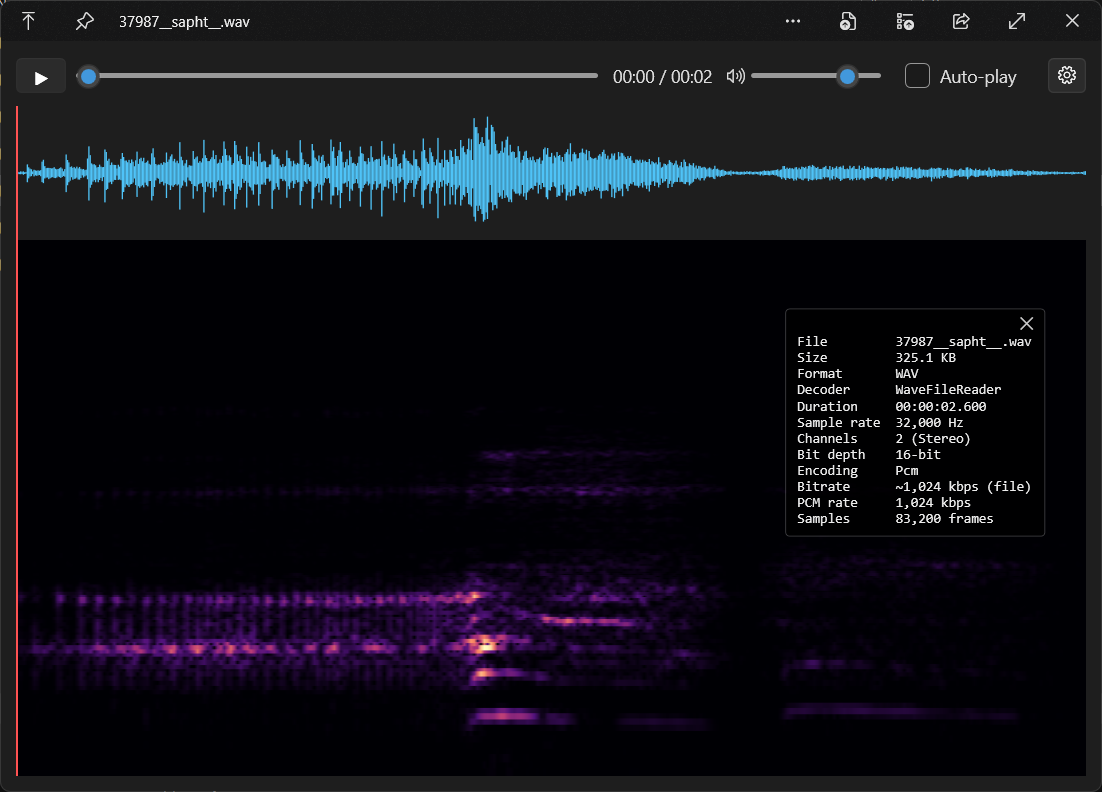
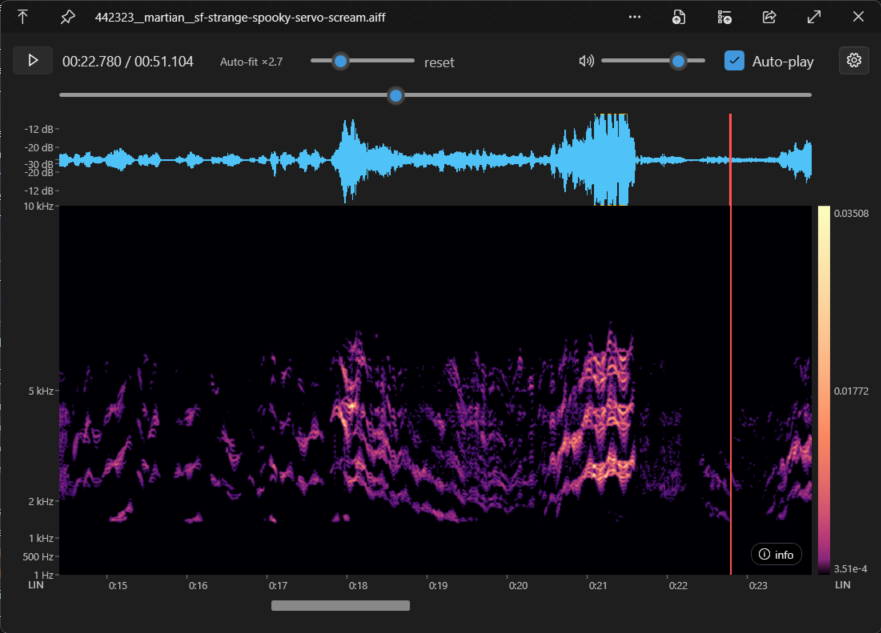
Stack the scale badges under the frequency ruler; new README screenshot
The amplitude badge sat under the colorbar, and with both scales on linear
the two corners both read "LIN", so the right-hand one wasn't recognisable
as the amplitude scale. Both now stack in the bottom-left corner, prefixed
"Hz LOG" over "Amp dB²", and still cycle on click. The time ruler is pinned
to the top of its row, since the stack makes the row taller.

diff --git a/QuickLook.Plugin.AudioViewer/AudioViewerControl.xaml b/QuickLook.Plugin.AudioViewer/AudioViewerControl.xaml
@@ -75,16 +75,16 @@
       <Setter Property="SnapsToDevicePixels" Value="True"/>
     </Style>
 
-    <!-- Clickable scale label in a plot corner (FreqScaleBadge / AmpScaleBadge). A TextBlock,
-         so it can never take keyboard focus away from Explorer's arrow keys. -->
+    <!-- Clickable scale label in the plot's bottom-left corner (FreqScaleBadge / AmpScaleBadge).
+         A TextBlock, so it can never take keyboard focus away from Explorer's arrow keys.
+         Right-aligned to line up with the frequency ruler's labels above it. -->
     <Style x:Key="ScaleBadge" TargetType="TextBlock">
       <Setter Property="Foreground" Value="{DynamicResource SecondaryText}"/>
       <Setter Property="Background" Value="Transparent"/>
       <Setter Property="FontSize" Value="10"/>
       <Setter Property="FontWeight" Value="SemiBold"/>
-      <Setter Property="HorizontalAlignment" Value="Center"/>
-      <Setter Property="VerticalAlignment" Value="Center"/>
-      <Setter Property="Padding" Value="4,1"/>
+      <Setter Property="HorizontalAlignment" Value="Right"/>
+      <Setter Property="Padding" Value="2,0"/>
       <Setter Property="Cursor" Value="Hand"/>
       <Setter Property="Visibility" Value="Collapsed"/>
       <Style.Triggers>
@@ -626,17 +626,21 @@
            visible slice of the timeline, taking the scroll offset from ViewScroll. It was
            previously as wide as the whole timeline and slid under this Grid's clip with a
            RenderTransform, which WPF's layout clip silently truncated — see TimeRuler. -->
-      <Grid Grid.Column="1" Grid.Row="1" ClipToBounds="True" Height="18">
+      <!-- Top-aligned: the scale badges beside it can make this row taller than the ruler. -->
+      <Grid Grid.Column="1" Grid.Row="1" ClipToBounds="True" Height="18" VerticalAlignment="Top">
         <ctl:TimeRuler x:Name="TimeAxis" Visibility="Collapsed"/>
       </Grid>
 
-      <!-- Active scales, in the otherwise empty bottom corners: frequency under the frequency
-           ruler, amplitude under the colorbar. Shown with them (RefreshAxes); a click cycles to
-           the next scale through the settings combo, so the two can never disagree. -->
-      <TextBlock x:Name="FreqScaleBadge" Grid.Column="0" Grid.Row="1" Style="{StaticResource ScaleBadge}"
-                 MouseLeftButtonUp="FreqScaleBadge_Click"/>
-      <TextBlock x:Name="AmpScaleBadge" Grid.Column="2" Grid.Row="1" Style="{StaticResource ScaleBadge}"
-                 Margin="6,0,0,0" MouseLeftButtonUp="AmpScaleBadge_Click"/>
+      <!-- Active scales, stacked in the otherwise empty corner under the frequency ruler:
+           "Hz LOG" over "Amp dB²" (prefixed, since both can read LIN). Shown with the ruler
+           (RefreshAxes); a click cycles to the next scale through the settings combo, so the
+           two can never disagree. -->
+      <StackPanel Grid.Column="0" Grid.Row="1" Margin="0,2,0,0">
+        <TextBlock x:Name="FreqScaleBadge" Style="{StaticResource ScaleBadge}"
+                   MouseLeftButtonUp="FreqScaleBadge_Click"/>
+        <TextBlock x:Name="AmpScaleBadge" Style="{StaticResource ScaleBadge}"
+                   MouseLeftButtonUp="AmpScaleBadge_Click"/>
+      </StackPanel>
     </Grid>
 
     <!-- Horizontal scrollbar for long files, placed below the time axis (well clear

diff --git a/QuickLook.Plugin.AudioViewer/AudioViewerControl.xaml.cs b/QuickLook.Plugin.AudioViewer/AudioViewerControl.xaml.cs
@@ -1081,9 +1081,10 @@ namespace QuickLook.Plugin.AudioViewer
 
         private void UpdateScaleBadges()
         {
-            FreqScaleBadge.Text = ScaleBadge.Short(PluginSettings.FreqScale);
+            // Prefixed because both can read "LIN"; the bare names stay in ScaleBadge.
+            FreqScaleBadge.Text = "Hz " + ScaleBadge.Short(PluginSettings.FreqScale);
             FreqScaleBadge.ToolTip = $"Frequency scale: {ComboText(FreqCombo)} (click to change)";
-            AmpScaleBadge.Text = ScaleBadge.Short(PluginSettings.AmpScale);
+            AmpScaleBadge.Text = "Amp " + ScaleBadge.Short(PluginSettings.AmpScale);
             AmpScaleBadge.ToolTip = $"Amplitude scale: {ComboText(AmpCombo)} (click to change)";
             FreqScaleBadge.Visibility = Visibility.Visible;
             AmpScaleBadge.Visibility = Visibility.Visible;

diff --git a/QuickLook.Plugin.AudioViewer/Settings/ScaleBadge.cs b/QuickLook.Plugin.AudioViewer/Settings/ScaleBadge.cs
@@ -1,8 +1,9 @@
 namespace QuickLook.Plugin.AudioViewer.Settings
 {
     /// <summary>
-    /// Short labels for the active scales, shown in the plot's bottom corners (frequency under
-    /// the frequency ruler, amplitude under the colorbar). Clicking one cycles to the next scale.
+    /// Short labels for the active scales, stacked in the plot's bottom-left corner under the
+    /// frequency ruler (the control prefixes them "Hz " / "Amp "). Clicking one cycles to the
+    /// next scale.
     /// </summary>
     internal static class ScaleBadge
     {

diff --git a/README.md b/README.md
@@ -9,7 +9,7 @@ files (`.wav .mp3 .flac .ogg .oga .m4a .aac .wma .aif .aiff`) with a waveform,
 a moving playhead, playback transport (play/pause, seek, volume, persisted
 auto-play), and a configurable spectrogram.
 
-![QuickLook.Plugin.AudioViewer previewing a WAV file — waveform above a magma spectrogram, with the draggable file-info overlay](assets/screenshot.png)
+![QuickLook.Plugin.AudioViewer previewing an AIFF file — auto-fitted waveform with a dB ruler above a magma spectrogram, with frequency ruler, colorbar, time axis and playhead](assets/screenshot.png)
 
 ## Waveform and channels
 
@@ -30,7 +30,7 @@ A gear (⚙) button in the toolbar opens a settings flyout. All choices persist:
 - **Layout** — *Stacked* (waveform above spectrogram, the default) or *Single view*
   (a button toggles between the full-area waveform and spectrogram).
 - **Frequency scale** — Linear, Log, or Mel. The active frequency and amplitude scales
-  are shown in the plot's bottom corners; click either to cycle it.
+  are shown under the frequency ruler (`Hz LOG` / `Amp dB²`); click either to cycle it.
 - **Amplitude** — Decibel (dB) or Linear.
 - **Colormap** — Magma, Viridis, Grayscale, Inferno, Plasma, Turbo, or Heat (RX-style).
 - **Reverse colormap** — flip any map light-based (for print / light backgrounds).

diff --git a/CHANGELOG.md b/CHANGELOG.md
@@ -6,6 +6,12 @@ adheres to [Semantic Versioning](https://semver.org/spec/v2.0.0.html).
 
 ## [Unreleased]
 
+### Changed
+- The amplitude-scale label moved from under the colorbar to under the frequency-scale
+  label, and both are now prefixed (`Hz LOG` over `Amp dB²`). They could both read `LIN`,
+  so on its own the right-hand one wasn't recognisable. Click either to cycle it, as before.
+- New README screenshot.
+
 ## [1.6.0] — 2026-10-19
 
 ### Added
